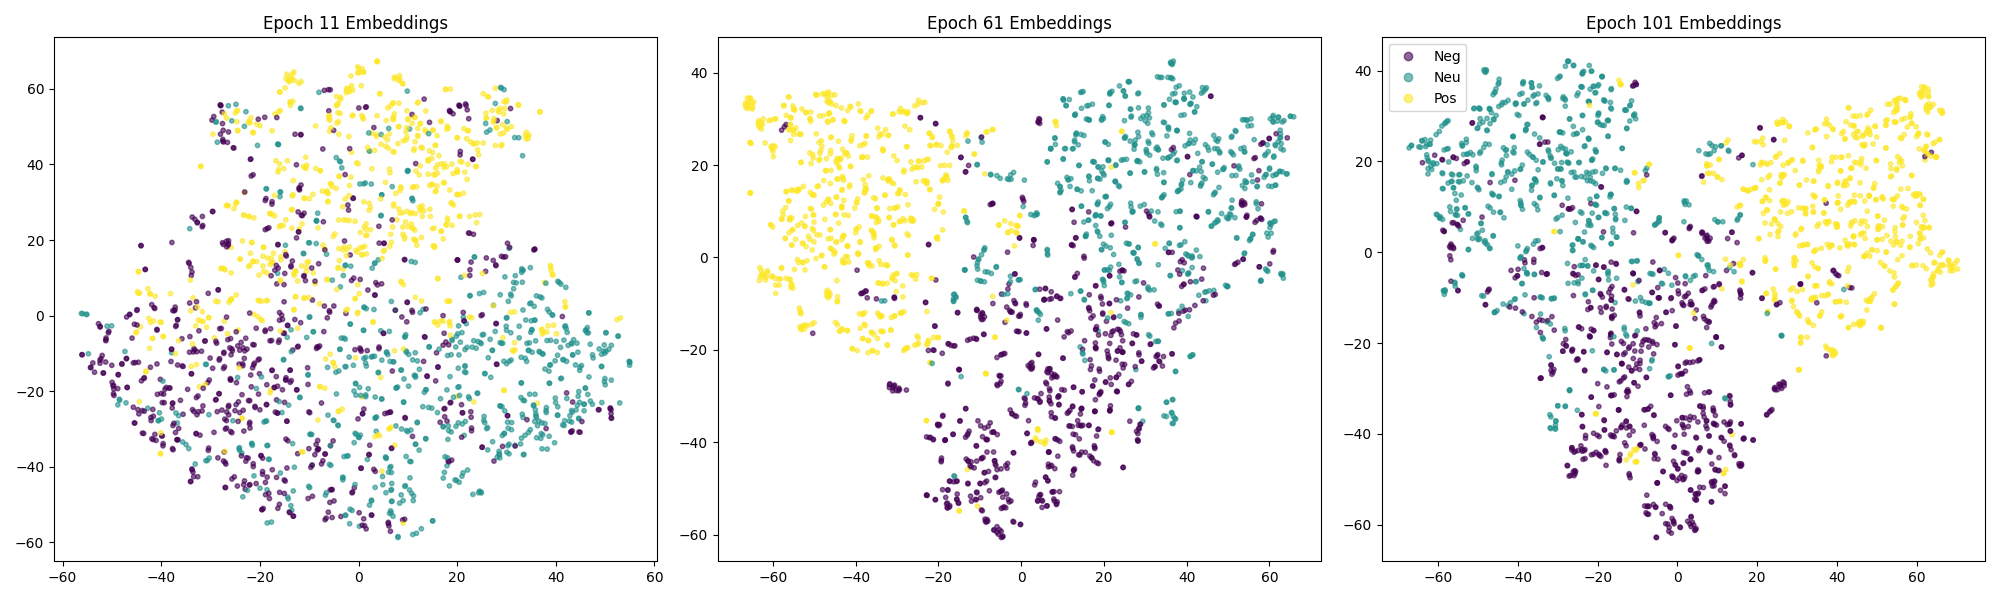
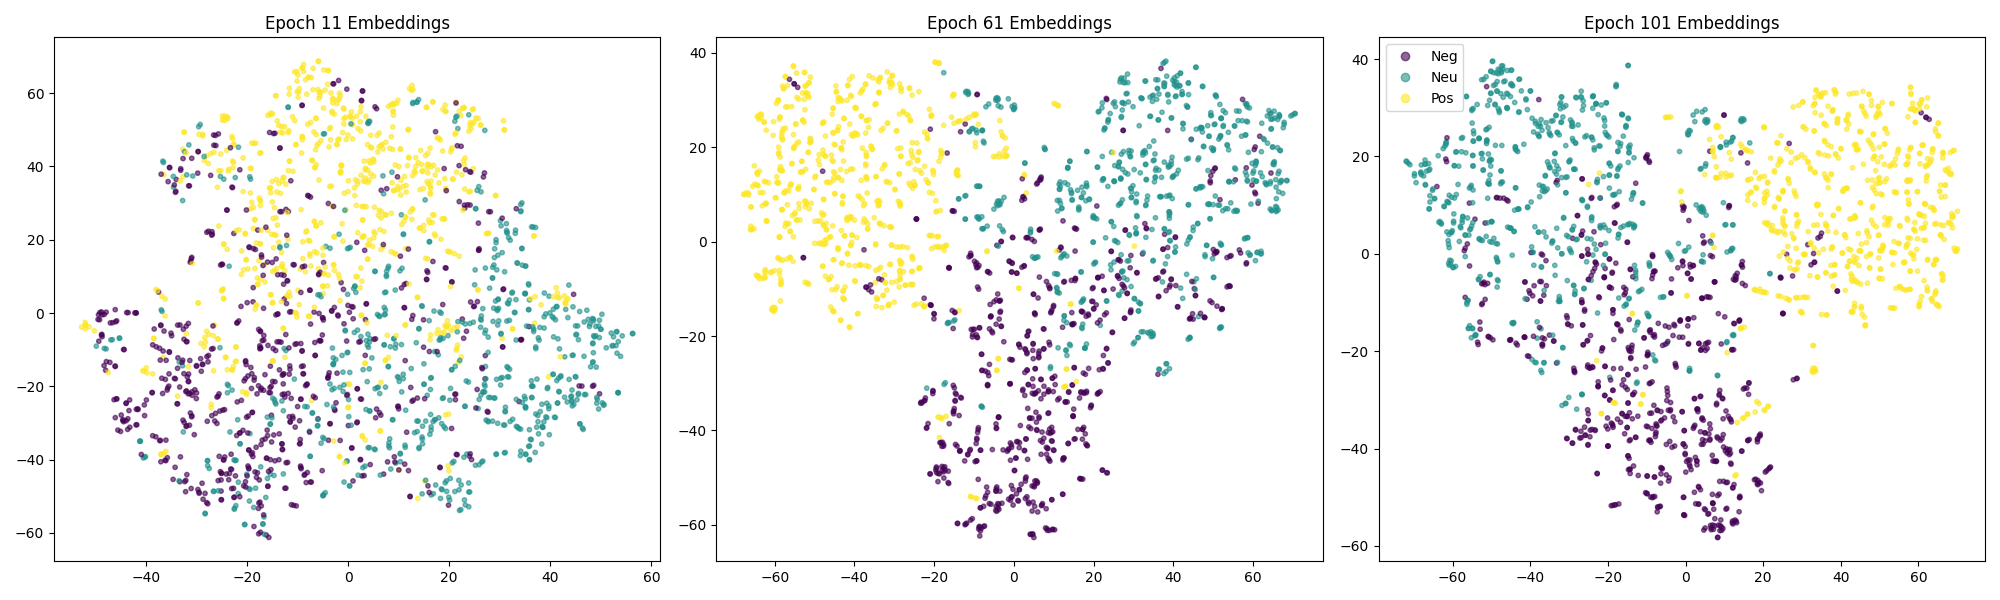
Add error heatmap and cm_evolution for Attempt 107 of GCN_DE_1s.

diff --git a/results_analysis/analyze_history.py b/results_analysis/analyze_history.py
@@ -212,33 +212,33 @@ def main():
         plt.savefig(os.path.join(results_dir, "error_heatmap.png"))
         print("Saved error_heatmap.png")
 
-    # --- 3. t-SNE Clustering Evolution ---
-    print("Generating t-SNE Clustering...")
-    avail_epochs = sorted(embeddings_history.keys())
-    if not avail_epochs:
-        print("No embeddings found in history.")
-    else:
-        selected_epochs = [avail_epochs[0], avail_epochs[len(avail_epochs)//2], avail_epochs[-1]]
-        selected_epochs = sorted(list(set(selected_epochs)))
+    # # --- 3. t-SNE Clustering Evolution ---
+    # print("Generating t-SNE Clustering...")
+    # avail_epochs = sorted(embeddings_history.keys())
+    # if not avail_epochs:
+    #     print("No embeddings found in history.")
+    # else:
+    #     selected_epochs = [avail_epochs[0], avail_epochs[len(avail_epochs)//2], avail_epochs[-1]]
+    #     selected_epochs = sorted(list(set(selected_epochs)))
         
-        fig, axes = plt.subplots(1, len(selected_epochs), figsize=(20, 6))
-        if len(selected_epochs) == 1: axes = [axes] 
+    #     fig, axes = plt.subplots(1, len(selected_epochs), figsize=(20, 6))
+    #     if len(selected_epochs) == 1: axes = [axes] 
         
-        indices = np.random.choice(len(y_true), min(2000, len(y_true)), replace=False)
+    #     indices = np.random.choice(len(y_true), min(2000, len(y_true)), replace=False)
         
-        for i, epoch in enumerate(selected_epochs):
-            emb = np.array(embeddings_history[epoch])[indices]
-            labels = np.array(y_true_arr)[indices]
+    #     for i, epoch in enumerate(selected_epochs):
+    #         emb = np.array(embeddings_history[epoch])[indices]
+    #         labels = np.array(y_true_arr)[indices]
             
-            tsne = TSNE(n_components=2, random_state=42, perplexity=30)
-            emb_2d = tsne.fit_transform(emb)
+    #         tsne = TSNE(n_components=2, random_state=42, perplexity=30)
+    #         emb_2d = tsne.fit_transform(emb)
             
-            scatter = axes[i].scatter(emb_2d[:, 0], emb_2d[:, 1], c=labels, cmap='viridis', alpha=0.6, s=10)
-            axes[i].set_title(f"Epoch {epoch+1} Embeddings")
+    #         scatter = axes[i].scatter(emb_2d[:, 0], emb_2d[:, 1], c=labels, cmap='viridis', alpha=0.6, s=10)
+    #         axes[i].set_title(f"Epoch {epoch+1} Embeddings")
             
-        plt.legend(handles=scatter.legend_elements()[0], labels=class_names)
-        plt.tight_layout()
-        plt.savefig(os.path.join(results_dir, "tsne_evolution.png"))
+        # plt.legend(handles=scatter.legend_elements()[0], labels=class_names)
+        # plt.tight_layout()
+        # plt.savefig(os.path.join(results_dir, "tsne_evolution.png"))
         # plt.show()
 
 if __name__ == "__main__":

diff --git a/train_de.py b/train_de.py
@@ -65,7 +65,7 @@ def get_args():
                         help="Training mode: 'sub_dep' (Session split) or 'sub_indep' (LOSO)")
     parser.add_argument('--window_size', type=str, default='1s', choices=['1s', '4s', '2s'],
                         help="Feature window size: '1s' or '4s'")
-    parser.add_argument('--model_type', type=str, default = 'ADAPTIVE_DGCNN', 
+    parser.add_argument('--model_type', type=str, default = 'GraphSAGE', 
                         choices=['GCN', 'DGCNN', 'ADAPTIVE_DGCNN', 'GraphSAGE'],
                         help="Type of GCN model to use")
     parser.add_argument('--max_parallel', type=int, default=4, 